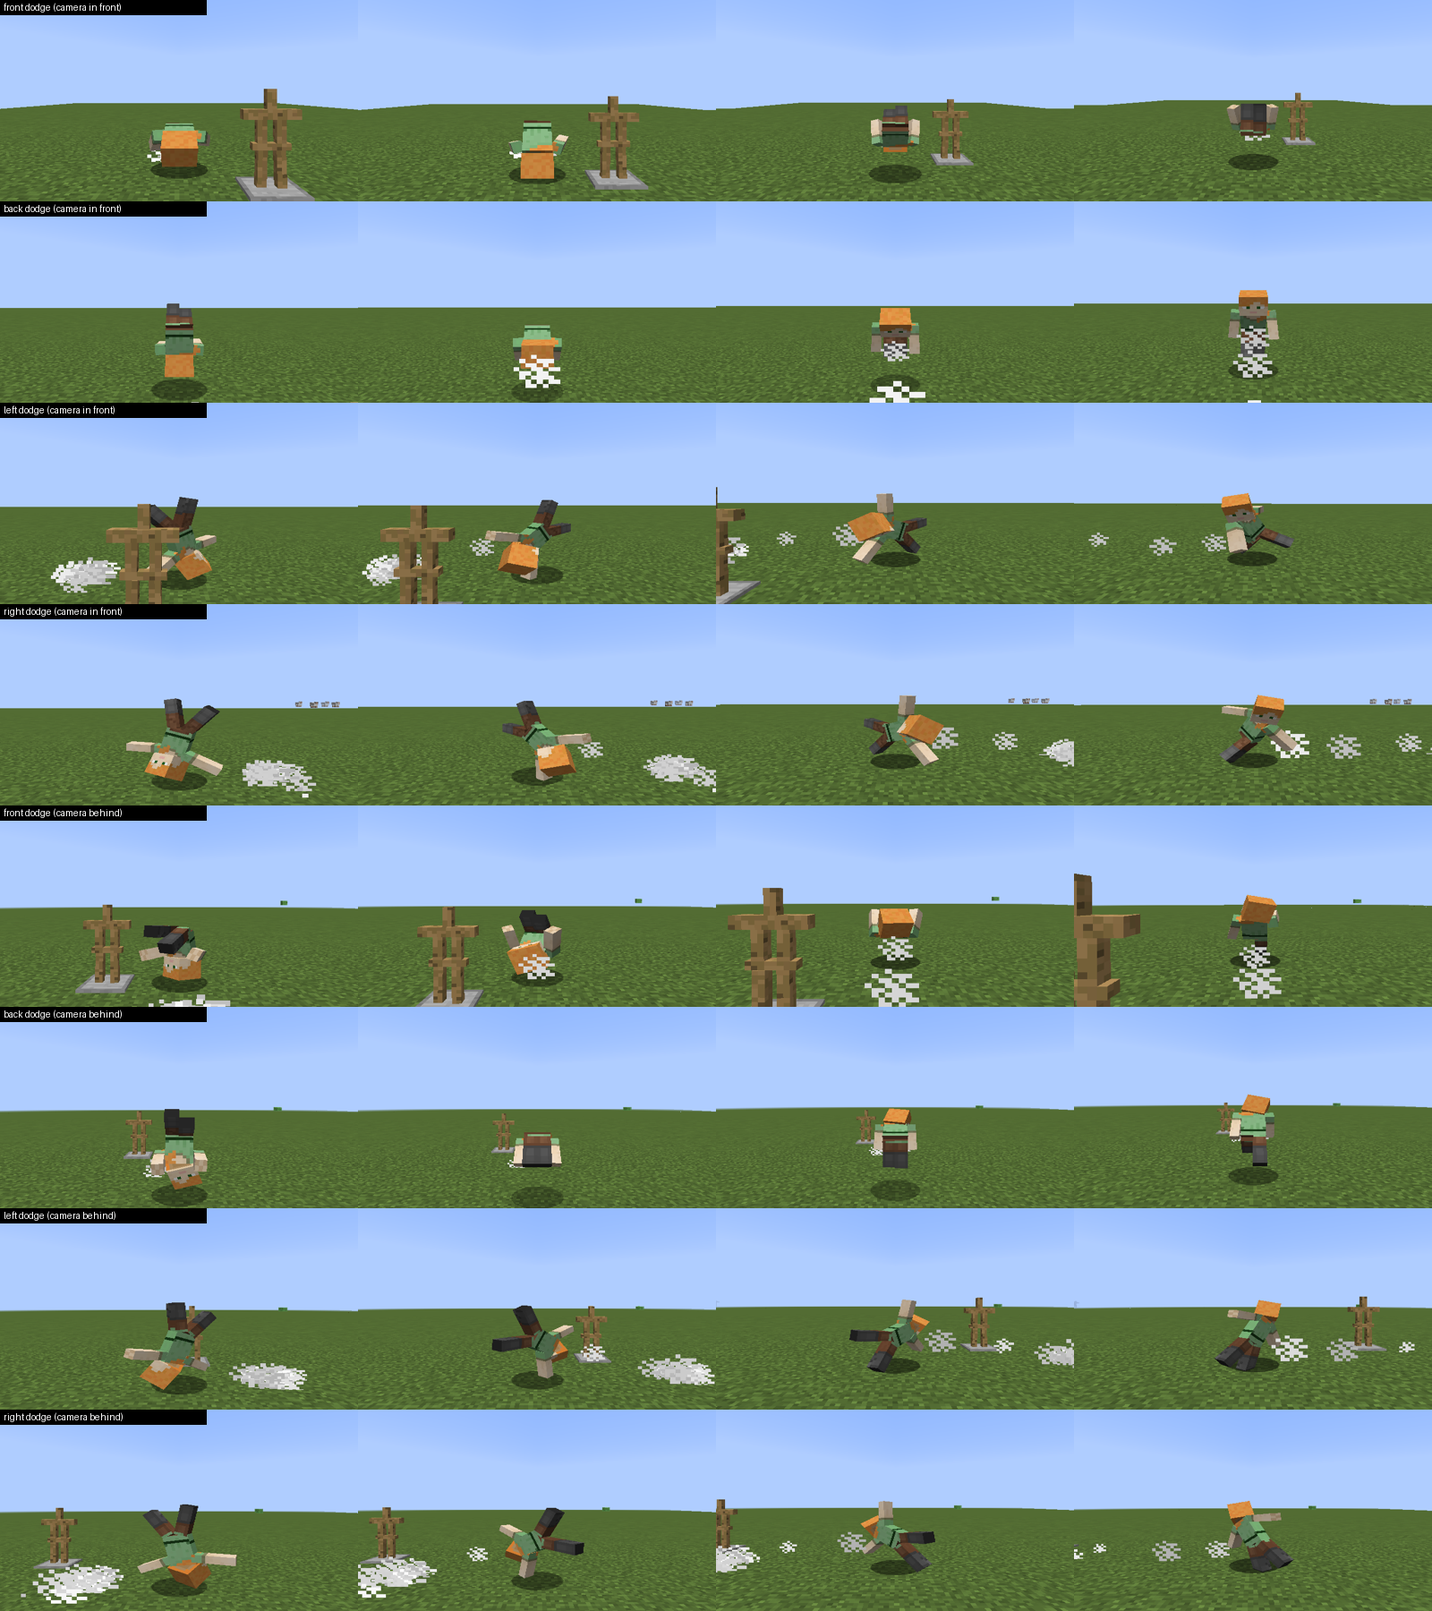
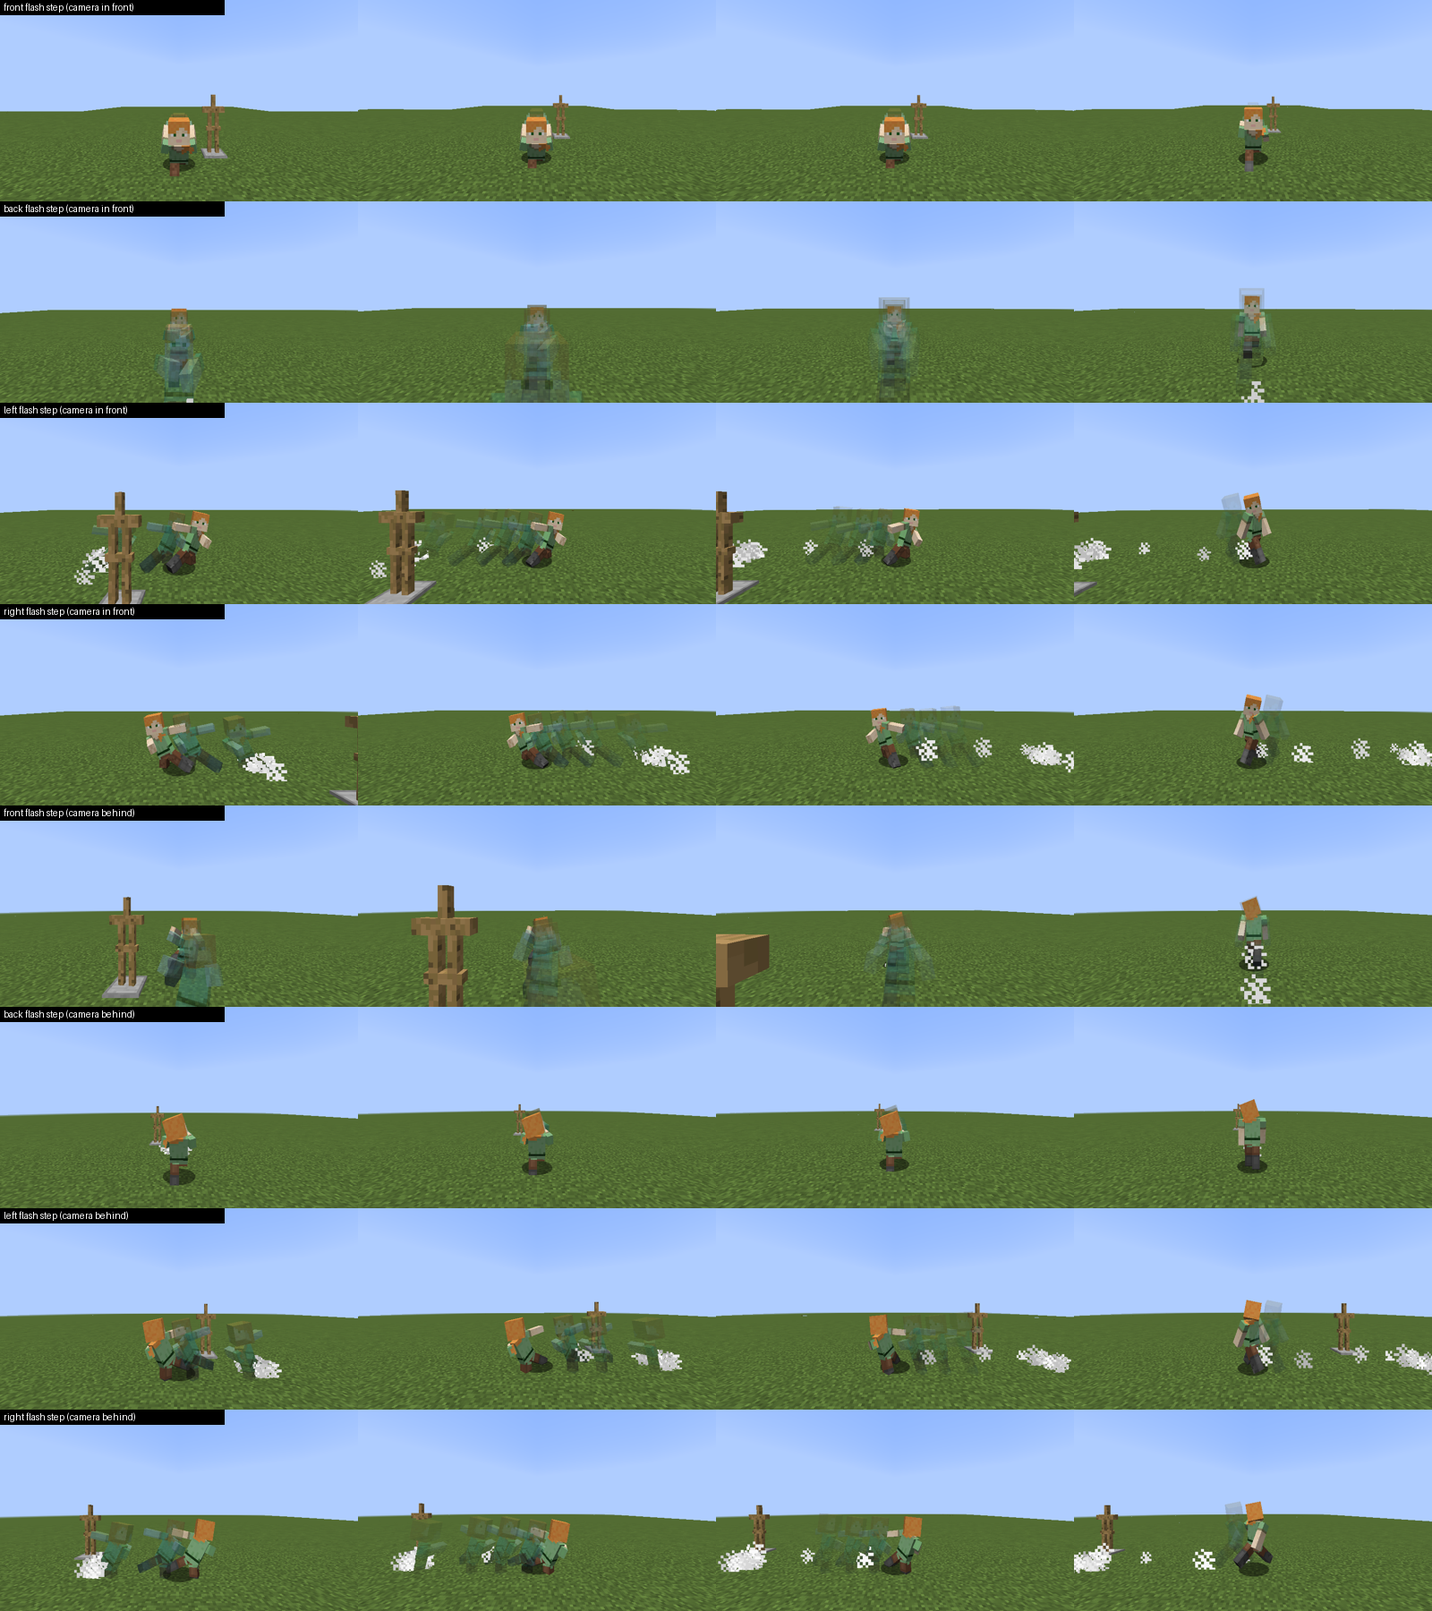
Make the dodge an anime flash step with afterimages
Low fast dash with a deep lean and per-direction poses (arms-back dash,
guarded backstep, mirrored side steps), fading blue afterimages along
the path and speed lines, replacing the gymnastic rolls.

Claude-Session: https://claude.ai/code/session_01QaW85G5ZviTJqYP7Y4kqRg

diff --git a/modules/vale-orders/src/main/java/village/vale/client/DodgeClient.java b/modules/vale-orders/src/main/java/village/vale/client/DodgeClient.java
@@ -25,9 +25,9 @@ import village.vale.DodgeMath;
 
 /**
  * Dodge key (default V, rebindable under Controls > Vale Orders) plus the four animations:
- * front = forward shoulder roll, back = back flip, left/right = mirrored side barrel rolls with
- * spread limbs. Body rotation is applied around the hips in RenderPlayerEvent; limb tucks come
- * from the existing biped pose hook. First person gets a short FOV kick instead.
+ * an anime-style flash step: a low burst dash with a deep lean, afterimages left along the path
+ * and speed lines. Front = arms-back dash, back = guarded backstep, left/right = mirrored side
+ * steps. The lean is applied in RenderPlayerEvent; limb poses come from the biped pose hook. First person gets a short FOV kick instead.
  */
 @SideOnly(Side.CLIENT)
 public final class DodgeClient {
@@ -54,6 +54,7 @@ public final class DodgeClient {
             if (Minecraft.getMinecraft().world == null) return;
             ACTIVE.put(id, new double[] {dir, now(0)});
             Entity e = Minecraft.getMinecraft().world.getEntityByID(id);
+            if (e != null) { java.util.ArrayDeque<double[]> t = new java.util.ArrayDeque<>(); t.add(new double[] {e.posX, e.posY, e.posZ}); TRAIL.put(id, t); }
             if (e != null) for (int i = 0; i < 8; i++)
                 e.world.spawnParticle(EnumParticleTypes.CLOUD, e.posX + (e.world.rand.nextDouble() - 0.5) * 0.6, e.posY + 0.1, e.posZ + (e.world.rand.nextDouble() - 0.5) * 0.6, 0, 0.02, 0);
         });
@@ -80,7 +81,15 @@ public final class DodgeClient {
             localCooldownUntil = t + DodgeMath.COOLDOWN_TICKS;
             Dodge.request(DodgeMath.direction(mc.player.movementInput.moveForward, mc.player.movementInput.moveStrafe));
         }
-        // Trail puffs while rolling.
+        for (Integer id : ACTIVE.keySet()) {
+            Entity en = mc.world.getEntityByID(id);
+            if (en == null) continue;
+            java.util.ArrayDeque<double[]> t = TRAIL.computeIfAbsent(id, k -> new java.util.ArrayDeque<>());
+            t.addLast(new double[] {en.posX, en.posY, en.posZ});
+            while (t.size() > DodgeMath.AFTERIMAGES + 3) t.removeFirst();
+        }
+        TRAIL.keySet().retainAll(ACTIVE.keySet());
+        // Dust kicked up along the dash.
         for (Map.Entry<Integer, double[]> a : ACTIVE.entrySet()) {
             Entity en = mc.world.getEntityByID(a.getKey());
             if (en == null) continue;
@@ -96,23 +105,77 @@ public final class DodgeClient {
         if (age < 0) return;
         int dir = dir(p);
         float body = p.prevRenderYawOffset + (p.renderYawOffset - p.prevRenderYawOffset) * e.getPartialRenderTick();
-        double spin = DodgeMath.spin(dir, age);
-        double hip = p.isSneaking() ? 0.7 : 0.9;
-        // Roll compresses the body around the hips: lower the pivot a little mid-roll.
-        double dip = 0.25 * DodgeMath.tuck(age);
+        double[] lean = DodgeMath.lean(dir, age);
+        double dip = 0.35 * DodgeMath.tuck(age); // stay low to the ground
         GlStateManager.pushMatrix();
         PUSHED.add(p.getEntityId());
-        GlStateManager.translate(e.getX(), e.getY() + hip - dip, e.getZ());
+        GlStateManager.translate(e.getX(), e.getY() - dip, e.getZ());
         GlStateManager.rotate(-body, 0, 1, 0);
-        if (dir == DodgeMath.FRONT || dir == DodgeMath.BACK) GlStateManager.rotate((float) spin, 1, 0, 0);
-        else GlStateManager.rotate((float) spin, 0, 0, 1);
+        GlStateManager.rotate((float) lean[0], 1, 0, 0);
+        GlStateManager.rotate((float) lean[1], 0, 0, 1);
         GlStateManager.rotate(body, 0, 1, 0);
-        GlStateManager.translate(-e.getX(), -e.getY() - hip, -e.getZ());
+        GlStateManager.translate(-e.getX(), -e.getY(), -e.getZ());
     }
 
+    private static boolean ghosting;
+    private static final Map<Integer, java.util.ArrayDeque<double[]>> TRAIL = new ConcurrentHashMap<>();
+
     @SubscribeEvent(priority = EventPriority.LOWEST, receiveCanceled = true) public void post(RenderPlayerEvent.Post e) {
-        // Post fires only if Pre was not cancelled; only pop what Pre pushed.
-        if (PUSHED.remove(e.getEntityPlayer().getEntityId())) GlStateManager.popMatrix();
+        EntityPlayer p = e.getEntityPlayer();
+        if (PUSHED.remove(p.getEntityId())) GlStateManager.popMatrix();
+        if (ghosting) return;
+        float partial = e.getPartialRenderTick();
+        double age = age(p, partial);
+        java.util.ArrayDeque<double[]> trail = TRAIL.get(p.getEntityId());
+        if (age < 0 || trail == null) return;
+        double px = p.lastTickPosX + (p.posX - p.lastTickPosX) * partial, py = p.lastTickPosY + (p.posY - p.lastTickPosY) * partial, pz = p.lastTickPosZ + (p.posZ - p.lastTickPosZ) * partial;
+        float yaw = p.prevRotationYaw + (p.rotationYaw - p.prevRotationYaw) * partial;
+        // Afterimages: translucent blue copies of the body left along the path.
+        ghosting = true;
+        GlStateManager.enableBlend();
+        GlStateManager.tryBlendFuncSeparate(GlStateManager.SourceFactor.SRC_ALPHA, GlStateManager.DestFactor.ONE_MINUS_SRC_ALPHA, GlStateManager.SourceFactor.ONE, GlStateManager.DestFactor.ZERO);
+        GlStateManager.depthMask(false);
+        try {
+            int i = 0;
+            for (java.util.Iterator<double[]> it = trail.descendingIterator(); it.hasNext() && i < DodgeMath.AFTERIMAGES; ) {
+                double[] g = it.next();
+                double dx = g[0] - px, dy = g[1] - py, dz = g[2] - pz;
+                if (dx * dx + dz * dz < 0.36) continue;
+                float a = (float) DodgeMath.ghostAlpha(i, age);
+                if (a > 0.01) {
+                    GlStateManager.color(0.55f, 0.82f, 1f, a);
+                    e.getRenderer().doRender((net.minecraft.client.entity.AbstractClientPlayer) p, e.getX() + dx, e.getY() + dy, e.getZ() + dz, yaw, partial);
+                }
+                i++;
+            }
+        } finally {
+            ghosting = false;
+            GlStateManager.color(1, 1, 1, 1);
+            GlStateManager.depthMask(true);
+            GlStateManager.disableBlend();
+        }
+        // Speed lines streaming back from the body.
+        if (age > DodgeMath.ANIM_TICKS * 0.75) return;
+        double[] last = trail.peekFirst();
+        double vx = px - last[0], vz = pz - last[2], n = Math.sqrt(vx * vx + vz * vz);
+        if (n < 0.3) return;
+        vx /= n; vz /= n;
+        float fade = (float) (1 - age / (DodgeMath.ANIM_TICKS * 0.75));
+        VfxDraw.begin(e.getX(), e.getY(), e.getZ());
+        try {
+            for (int k = 0; k < 9; k++) {
+                double side = (village.vale.WeaponMath.hash(p.getEntityId(), k) - 0.5) * 1.1, h = 0.15 + 1.6 * village.vale.WeaponMath.hash(p.getEntityId(), k + 20);
+                double len = 1.2 + 1.8 * village.vale.WeaponMath.hash(p.getEntityId(), k + 40), back = 0.3 + 0.4 * village.vale.WeaponMath.hash((long) age, k);
+                double ox = -vz * side, oz = vx * side;
+                double[] a0 = {ox - vx * back, h, oz - vz * back}, a1 = {ox - vx * (back + len), h, oz - vz * (back + len)};
+                VfxDraw.normal();
+                VfxDraw.line(new double[][] {a0, a1}, 0x7FC4FF, 0.6f * fade, 0f, 4f);
+                VfxDraw.additive();
+                VfxDraw.line(new double[][] {a0, a1}, 0xFFFFFF, 0.9f * fade, 0f, 1.5f);
+            }
+        } finally {
+            VfxDraw.end();
+        }
     }
 
     @SubscribeEvent public void fov(FOVUpdateEvent e) {
@@ -127,41 +190,48 @@ public final class DodgeClient {
         if (age < 0) return;
         int dir = dir(entity);
         float k = (float) DodgeMath.tuck(age);
-        m.bipedHead.rotateAngleX = lerp(m.bipedHead.rotateAngleX, dir == DodgeMath.BACK ? -0.6f : 0.7f, k);
         switch (dir) {
-            case DodgeMath.FRONT: // tight shoulder roll: knees to chest, arms wrapped
-                m.bipedRightLeg.rotateAngleX = lerp(m.bipedRightLeg.rotateAngleX, -1.9f, k);
-                m.bipedLeftLeg.rotateAngleX = lerp(m.bipedLeftLeg.rotateAngleX, -1.7f, k);
-                m.bipedRightArm.rotateAngleX = lerp(m.bipedRightArm.rotateAngleX, -1.4f, k);
-                m.bipedLeftArm.rotateAngleX = lerp(m.bipedLeftArm.rotateAngleX, -1.4f, k);
-                m.bipedRightArm.rotateAngleZ = lerp(m.bipedRightArm.rotateAngleZ, 0.5f, k);
-                m.bipedLeftArm.rotateAngleZ = lerp(m.bipedLeftArm.rotateAngleZ, -0.5f, k);
+            case DodgeMath.FRONT: // dash: arms swept straight back, long stride, eyes forward
+                m.bipedHead.rotateAngleX = lerp(m.bipedHead.rotateAngleX, -0.6f, k);
+                m.bipedRightArm.rotateAngleX = lerp(m.bipedRightArm.rotateAngleX, 1.35f, k);
+                m.bipedLeftArm.rotateAngleX = lerp(m.bipedLeftArm.rotateAngleX, 1.35f, k);
+                m.bipedRightArm.rotateAngleZ = lerp(m.bipedRightArm.rotateAngleZ, 0.25f, k);
+                m.bipedLeftArm.rotateAngleZ = lerp(m.bipedLeftArm.rotateAngleZ, -0.25f, k);
+                m.bipedRightLeg.rotateAngleX = lerp(m.bipedRightLeg.rotateAngleX, -1.0f, k);
+                m.bipedLeftLeg.rotateAngleX = lerp(m.bipedLeftLeg.rotateAngleX, 0.8f, k);
                 break;
-            case DodgeMath.BACK: { // back flip: arms sweep overhead first, then knees tuck
-                double u = age / DodgeMath.ANIM_TICKS;
-                float reach = (float) Math.max(0, 1 - u * 2.2);
-                m.bipedRightArm.rotateAngleX = lerp(lerp(m.bipedRightArm.rotateAngleX, -1.2f, k), -3.0f, reach);
-                m.bipedLeftArm.rotateAngleX = lerp(lerp(m.bipedLeftArm.rotateAngleX, -1.2f, k), -3.0f, reach);
-                m.bipedRightLeg.rotateAngleX = lerp(m.bipedRightLeg.rotateAngleX, -1.5f, k);
-                m.bipedLeftLeg.rotateAngleX = lerp(m.bipedLeftLeg.rotateAngleX, -1.5f, k);
+            case DodgeMath.BACK: // backstep: guard up, front foot skidding, low stance
+                m.bipedHead.rotateAngleX = lerp(m.bipedHead.rotateAngleX, 0.35f, k);
+                m.bipedRightArm.rotateAngleX = lerp(m.bipedRightArm.rotateAngleX, -1.45f, k);
+                m.bipedLeftArm.rotateAngleX = lerp(m.bipedLeftArm.rotateAngleX, -1.2f, k);
+                m.bipedRightArm.rotateAngleY = lerp(m.bipedRightArm.rotateAngleY, -0.45f, k);
+                m.bipedLeftArm.rotateAngleY = lerp(m.bipedLeftArm.rotateAngleY, 0.45f, k);
+                m.bipedRightLeg.rotateAngleX = lerp(m.bipedRightLeg.rotateAngleX, -0.9f, k);
+                m.bipedLeftLeg.rotateAngleX = lerp(m.bipedLeftLeg.rotateAngleX, 0.55f, k);
                 break;
-            }
-            default: { // side barrel roll: limbs spread like a cartwheel, mirrored left/right
-                float s = dir == DodgeMath.LEFT ? 1 : -1;
-                m.bipedRightArm.rotateAngleZ = lerp(m.bipedRightArm.rotateAngleZ, 2.3f, k);
-                m.bipedLeftArm.rotateAngleZ = lerp(m.bipedLeftArm.rotateAngleZ, -2.3f, k);
-                m.bipedRightArm.rotateAngleX = lerp(m.bipedRightArm.rotateAngleX, 0, k);
-                m.bipedLeftArm.rotateAngleX = lerp(m.bipedLeftArm.rotateAngleX, 0, k);
-                m.bipedRightLeg.rotateAngleZ = lerp(m.bipedRightLeg.rotateAngleZ, 0.55f, k);
-                m.bipedLeftLeg.rotateAngleZ = lerp(m.bipedLeftLeg.rotateAngleZ, -0.55f, k);
+            default: { // side step: lead hand trailing low, other arm guarding, legs split
+                boolean left = dir == DodgeMath.LEFT;
+                ModelRendererPair lead = left ? new ModelRendererPair(m.bipedRightArm, m.bipedLeftArm) : new ModelRendererPair(m.bipedLeftArm, m.bipedRightArm);
+                float s = left ? 1 : -1;
+                lead.trail.rotateAngleZ = lerp(lead.trail.rotateAngleZ, 1.25f * s, k);
+                lead.trail.rotateAngleX = lerp(lead.trail.rotateAngleX, 0.3f, k);
+                lead.guard.rotateAngleX = lerp(lead.guard.rotateAngleX, -1.35f, k);
+                lead.guard.rotateAngleY = lerp(lead.guard.rotateAngleY, 0.6f * s, k);
+                m.bipedRightLeg.rotateAngleZ = lerp(m.bipedRightLeg.rotateAngleZ, 0.6f, k);
+                m.bipedLeftLeg.rotateAngleZ = lerp(m.bipedLeftLeg.rotateAngleZ, -0.6f, k);
                 m.bipedRightLeg.rotateAngleX = lerp(m.bipedRightLeg.rotateAngleX, 0, k);
                 m.bipedLeftLeg.rotateAngleX = lerp(m.bipedLeftLeg.rotateAngleX, 0, k);
-                m.bipedHead.rotateAngleZ = lerp(m.bipedHead.rotateAngleZ, 0.3f * s, k);
+                m.bipedHead.rotateAngleZ = lerp(m.bipedHead.rotateAngleZ, -0.35f * s, k);
                 break;
             }
         }
         m.bipedHeadwear.rotateAngleX = m.bipedHead.rotateAngleX;
         m.bipedHeadwear.rotateAngleZ = m.bipedHead.rotateAngleZ;
+    }
+
+    private static final class ModelRendererPair {
+        final net.minecraft.client.model.ModelRenderer trail, guard;
+        ModelRendererPair(net.minecraft.client.model.ModelRenderer trail, net.minecraft.client.model.ModelRenderer guard) { this.trail = trail; this.guard = guard; }
     }
 
     private static float lerp(float a, float b, float k) { return a + (b - a) * k; }

diff --git a/modules/vale-orders/src/main/java/village/vale/DodgeMath.java b/modules/vale-orders/src/main/java/village/vale/DodgeMath.java
@@ -6,8 +6,9 @@ public final class DodgeMath {
     public static final int FRONT = 0, BACK = 1, LEFT = 2, RIGHT = 3;
     public static final String[] NAMES = {"front", "back", "left", "right"};
     /** Animation length and server recovery (ticks). */
-    public static final int ANIM_TICKS = 12, COOLDOWN_TICKS = 16, IFRAME_TICKS = 6;
-    public static final double SPEED = 1.05, LIFT = 0.22, BACK_LIFT = 0.34;
+    public static final int ANIM_TICKS = 9, COOLDOWN_TICKS = 16, IFRAME_TICKS = 6, AFTERIMAGES = 5;
+    /** Flash-step burst: fast and low to the ground (anime body-flicker), not a hop. */
+    public static final double SPEED = 1.55, LIFT = 0.08, BACK_LIFT = 0.14;
 
     /** Direction from held movement input (moveForward > 0 is W, moveStrafe > 0 is A). No input dodges backwards. */
     public static int direction(float forward, float strafe) {
@@ -44,20 +45,30 @@ public final class DodgeMath {
         return 0.35 * u + 0.65 * t;
     }
 
-    /** Whole-body rotation in degrees: front roll +360, back flip -360, side rolls +/-360 about the forward axis. */
-    public static double spin(int dir, double age) {
-        double p = progress(age);
+    /**
+     * Body lean in degrees {pitch, roll}: a deep forward dash lean, a backstep lean, and side
+     * leans into the step. Snaps in fast, holds, then recovers to upright.
+     */
+    public static double[] lean(int dir, double age) {
+        double k = tuck(age);
         switch (dir) {
-            case FRONT: return 360 * p;
-            case BACK: return -360 * p;
-            case LEFT: return -360 * p;
-            default: return 360 * p;
+            case FRONT: return new double[] {38 * k, 0};
+            case BACK: return new double[] {-22 * k, 0};
+            case LEFT: return new double[] {8 * k, -28 * k};
+            default: return new double[] {8 * k, 28 * k};
         }
+    }
+
+    /** Afterimage alpha for ghost i (0 = newest) at the given age; ghosts fade as the step ends. */
+    public static double ghostAlpha(int i, double age) {
+        double life = 1 - Math.max(0, Math.min(1, (age - ANIM_TICKS * 0.4) / (ANIM_TICKS * 0.8)));
+        return Math.max(0, 0.45 * (1 - i / (double) AFTERIMAGES) * life);
     }
 
     /** Tuck amount 0..1: limbs pull in mid-roll and release at the end. */
     public static double tuck(double age) {
         double u = Math.max(0, Math.min(1, age / ANIM_TICKS));
-        return Math.sin(Math.PI * Math.min(1, u * 1.15));
+        double in = Math.min(1, u * 4), out = Math.min(1, (1 - u) * 2.5);
+        return Math.sin(Math.PI / 2 * Math.min(in, out));
     }
 }

diff --git a/modules/vale-orders/tests/village/vale/DodgeMathTest.java b/modules/vale-orders/tests/village/vale/DodgeMathTest.java
@@ -29,12 +29,18 @@ public final class DodgeMathTest {
         double prev = -1;
         for (int i = 0; i <= 40; i++) { double p = DodgeMath.progress(i * DodgeMath.ANIM_TICKS / 40.0); check(p >= prev && p <= 1, "progress monotonic"); prev = p; }
         for (int d = 0; d < 4; d++) {
-            check(DodgeMath.spin(d, 0) == 0 && Math.abs(Math.abs(DodgeMath.spin(d, DodgeMath.ANIM_TICKS)) - 360) < 1e-9, "full rotation ends upright " + d);
-            check(DodgeMath.spin(d, 30) == DodgeMath.spin(d, DodgeMath.ANIM_TICKS), "spin holds after the end");
+            double[] start = DodgeMath.lean(d, 0), mid = DodgeMath.lean(d, DodgeMath.ANIM_TICKS * 0.4), end = DodgeMath.lean(d, DodgeMath.ANIM_TICKS);
+            check(Math.abs(start[0]) + Math.abs(start[1]) < 1e-9 && Math.abs(end[0]) + Math.abs(end[1]) < 1e-9, "upright before and after " + d);
+            check(Math.abs(mid[0]) + Math.abs(mid[1]) > 20, "strong lean mid-step " + d);
+            check(Math.abs(mid[0]) < 90 && Math.abs(mid[1]) < 90, "never flips " + d);
         }
-        check(Math.signum(DodgeMath.spin(DodgeMath.FRONT, 5)) != Math.signum(DodgeMath.spin(DodgeMath.BACK, 5)), "front roll and back flip turn opposite ways");
-        check(Math.signum(DodgeMath.spin(DodgeMath.LEFT, 5)) != Math.signum(DodgeMath.spin(DodgeMath.RIGHT, 5)), "left and right rolls mirror");
-        check(DodgeMath.tuck(0) < 1e-9 && DodgeMath.tuck(DodgeMath.ANIM_TICKS * 0.45) > 0.9 && DodgeMath.tuck(DodgeMath.ANIM_TICKS) < 0.5, "tuck peaks mid-roll");
+        check(DodgeMath.lean(DodgeMath.FRONT, 4)[0] > 0 && DodgeMath.lean(DodgeMath.BACK, 4)[0] < 0, "front leans in, back leans away");
+        check(DodgeMath.lean(DodgeMath.LEFT, 4)[1] == -DodgeMath.lean(DodgeMath.RIGHT, 4)[1], "side leans mirror");
+        check(DodgeMath.tuck(0) < 1e-9 && DodgeMath.tuck(DodgeMath.ANIM_TICKS * 0.4) > 0.99 && DodgeMath.tuck(DodgeMath.ANIM_TICKS) < 1e-9, "pose snaps in, holds, recovers");
+        for (int i = 0; i < DodgeMath.AFTERIMAGES; i++) {
+            check(DodgeMath.ghostAlpha(i, 2) > DodgeMath.ghostAlpha(i + 1, 2), "older afterimages are fainter");
+            check(DodgeMath.ghostAlpha(i, DodgeMath.ANIM_TICKS * 1.3) == 0, "afterimages gone after the step");
+        }
         System.out.println("PASS: " + checks + " dodge checks (directions, velocity, gating, rotation, tuck).");
     }
 }

diff --git a/collaboration/fable/VFX-REVIEW-FOR-CODEX.md b/collaboration/fable/VFX-REVIEW-FOR-CODEX.md
@@ -43,7 +43,7 @@ Real 1.12.2 client under Xvfb and Mesa, using a private probe that is not commit
 
 ## Four-way dodge (key V, rebindable)
 - New: `Dodge.java` (channel `valeorders_dodge`; the server checks cooldown and one air dodge per jump, then applies the burst and a short hurt grace), `DodgeMath.java`, `client/DodgeClient.java`, `tests/village/vale/DodgeMathTest.java` (547 checks).
-- Direction comes from movement input: W gives a forward roll, S or no input gives a back flip, and A/D give mirrored side rolls.
+- Anime-style flash step (no flips). Direction comes from movement input: W gives a low dash with arms swept back, S or no input gives a guarded backstep, and A/D give mirrored side steps. Each step leaves 5 fading blue afterimages and speed lines, with a burst of 1.55 blocks per tick kept low to the ground.
 - Hooks in shared files: `ValeOrders.preInit` calls `Dodge.register()`. `CommonProxy` and `ClientProxy` get `dodgeAnim`. `ClientProxy.preInit` calls `DodgeClient.initialize()`. `RunPoses.finish` calls `DodgeClient.pose`. Lang keys added.
-- Tuning to agree with Codex's combat: cooldown 16 ticks, speed 1.05, i-frames ~6 ticks. Should it also cost resolve or stamina?
+- Tuning to agree with Codex's combat: cooldown 16 ticks, speed 1.55, i-frames ~6 ticks. Should it also cost resolve or stamina?
 - Evidence: `release/evidence/dodge-4way-20261113.png`. Probe flag: `-Dvaleorders.vfxshots.dodge=true`.
